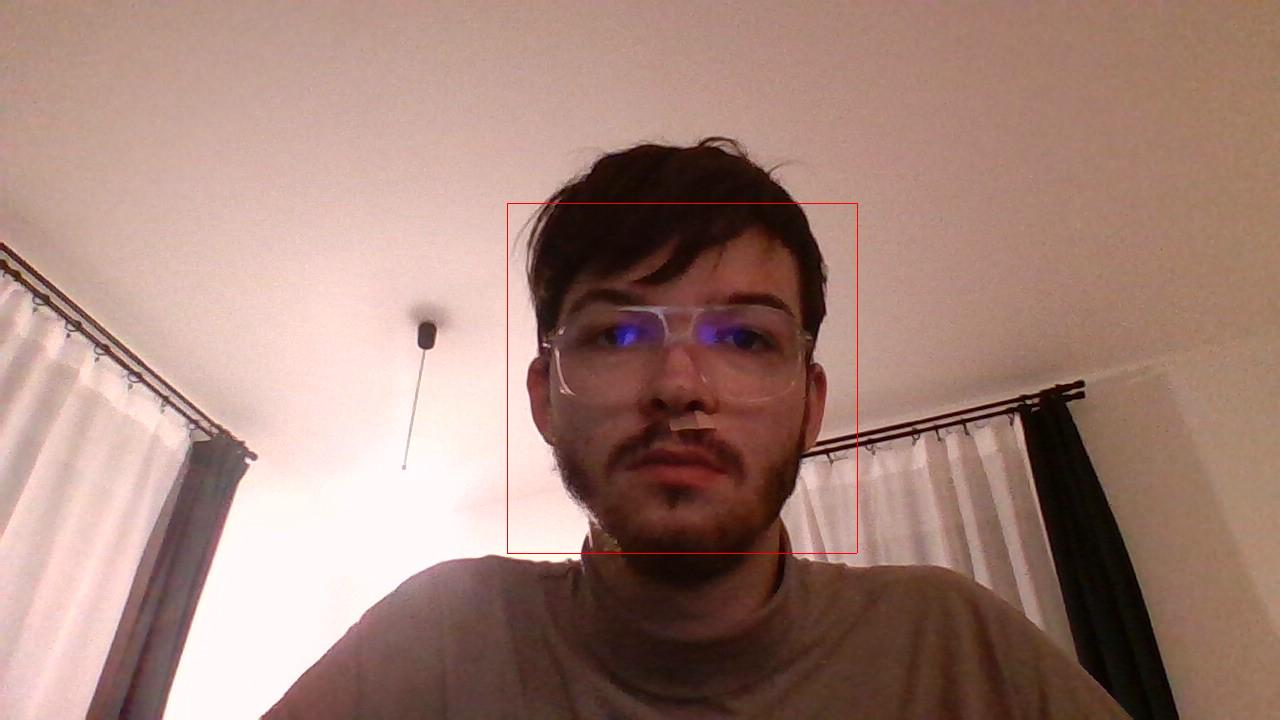
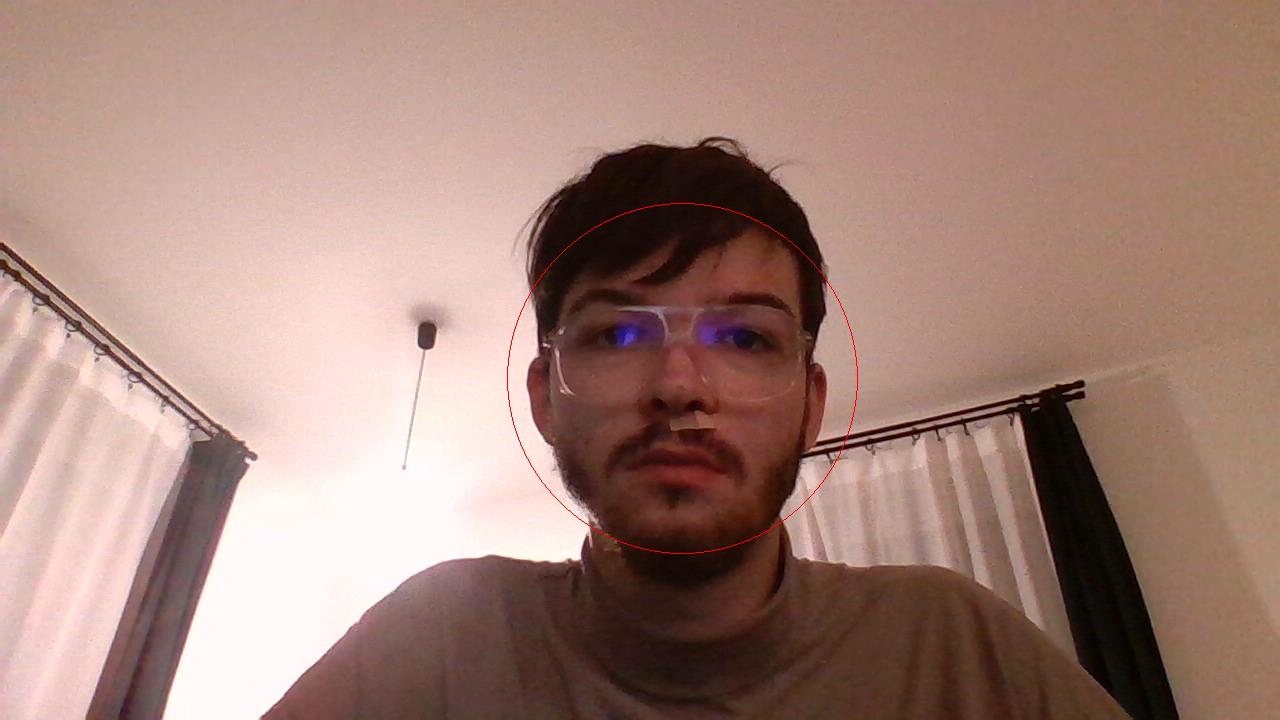
create utils

diff --git a/internal/detection/face.go b/internal/detection/face.go
@@ -6,9 +6,10 @@ import (
 	"image/jpeg"
 	"log"
 	"os"
-	"path/filepath"
 
 	pigo "github.com/esimov/pigo/core"
+
+	"github.com/D-Mielewczyk/GoFace/internal/utils"
 )
 
 func DetectFace(image_path, output_dir string, circle bool, cascade_path string) {
@@ -83,15 +84,15 @@ func DetectFace(image_path, output_dir string, circle bool, cascade_path string)
 	for _, det := range dets {
 		if det.Q > 5 {
 			if circle {
-				drawCircle(dst, det.Col, det.Row, det.Scale/2)
+				utils.DrawCircle(dst, det.Col, det.Row, det.Scale/2)
 			} else {
-				drawRectangle(dst, det.Col-det.Scale/2, det.Row-det.Scale/2, det.Scale, det.Scale)
+				utils.DrawRectangle(dst, det.Col-det.Scale/2, det.Row-det.Scale/2, det.Scale, det.Scale)
 			}
 		}
 	}
 
 	// Save the modified image
-	output_path := ConvertPath(image_path, output_dir)
+	output_path := utils.ConvertPath(image_path, output_dir)
 	outFile, err := os.Create(output_path)
     if err != nil {
         log.Fatalf("Cannot create output file %v, because of:\n%v", output_path, err)
@@ -106,7 +107,4 @@ func DetectFace(image_path, output_dir string, circle bool, cascade_path string)
     log.Printf("Output image saved as %v", output_path)
 }
 
-func ConvertPath(input_path string, output_dir string) string {
-	fileName := filepath.Base(input_path)
-	return filepath.Join(output_dir, fileName)
-}
+

diff --git a/internal/utils/path.go b/internal/utils/path.go
@@ -1,0 +1,8 @@
+package utils
+
+import "path/filepath"
+
+func ConvertPath(input_path string, output_dir string) string {
+	fileName := filepath.Base(input_path)
+	return filepath.Join(output_dir, fileName)
+}
